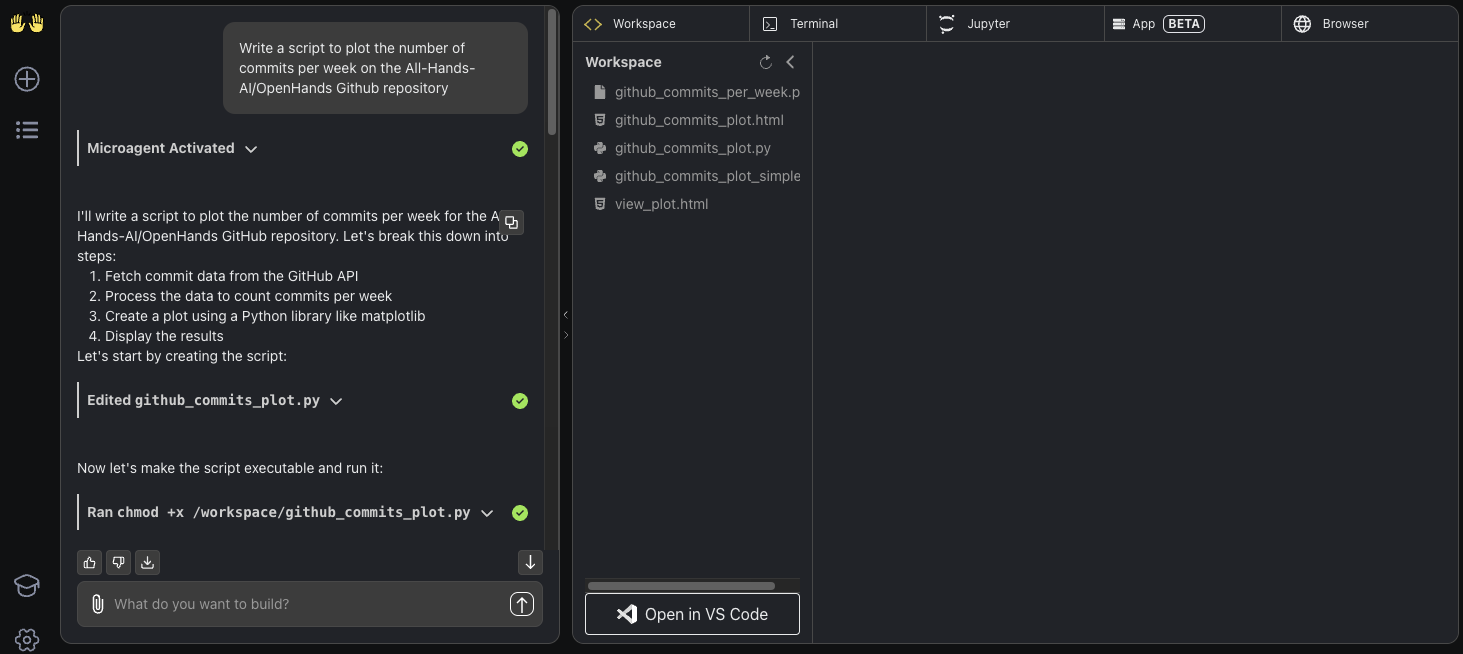
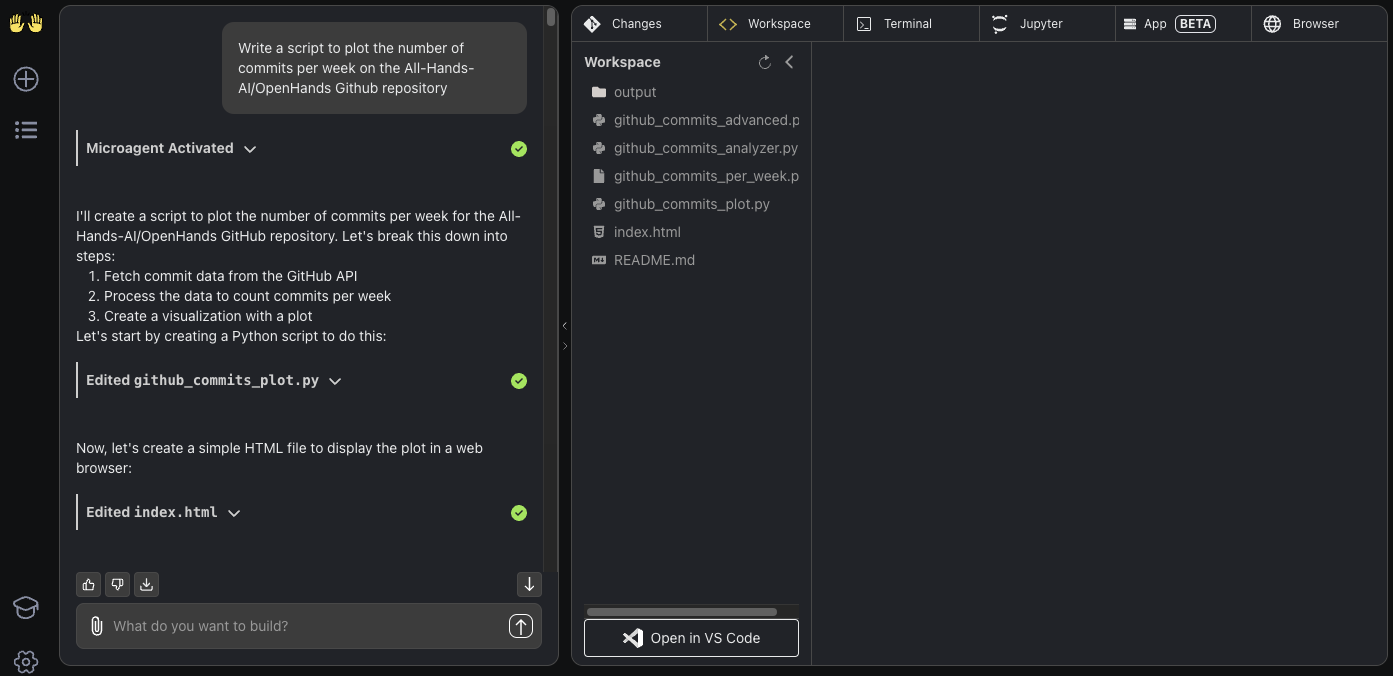
Update Documentation with new release features (#8045)

diff --git a/docs/modules/usage/key-features.md b/docs/modules/usage/key-features.md
@@ -6,6 +6,9 @@
 - Displays the conversation between the user and OpenHands.
 - OpenHands explains its actions in this panel.
 
+### Changes
+- Shows the file changes performed by OpenHands.
+
 ### Workspace
 - Browse project files and directories.
 - Use the `Open in VS Code` option to:
@@ -20,7 +23,7 @@
 - Particularly handy when using OpenHands to perform data visualization tasks.
 
 ### App
-- Shows the web server when OpenHands runs an application.
+- Displays the web server when OpenHands runs an application.
 - Users can interact with the running application.
 
 ### Browser
